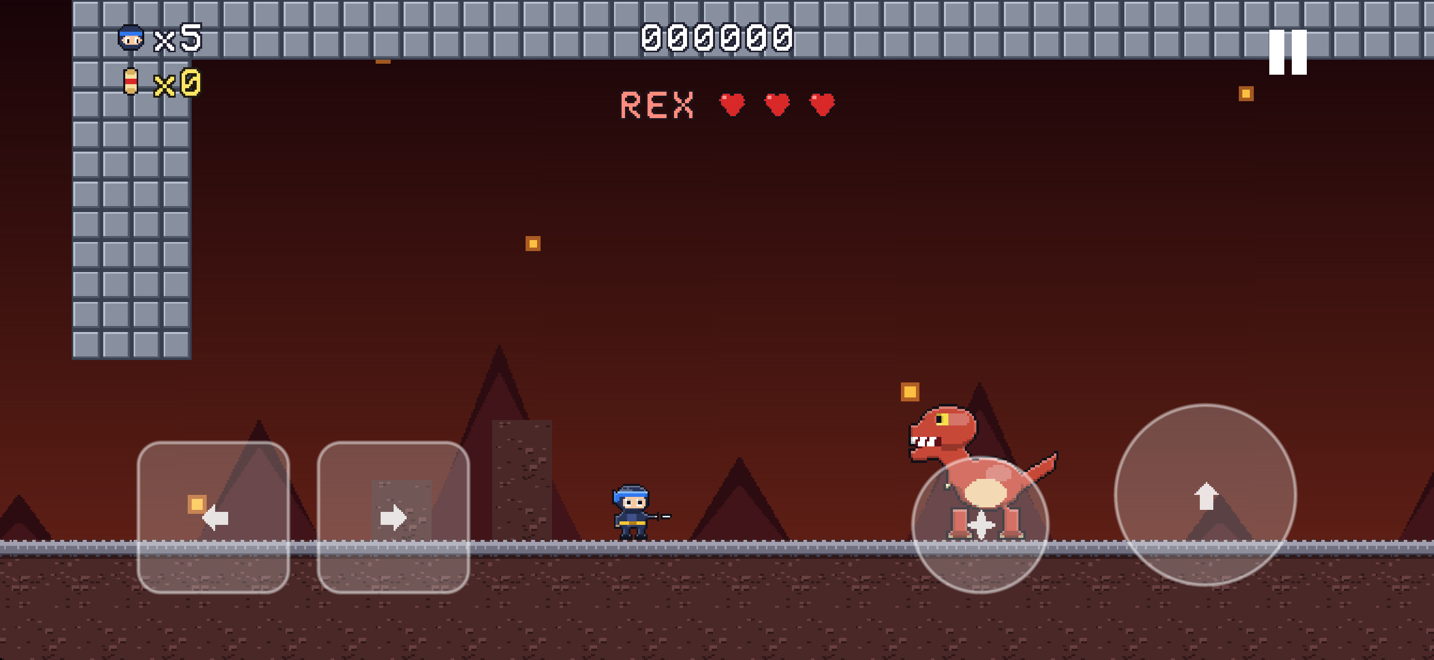
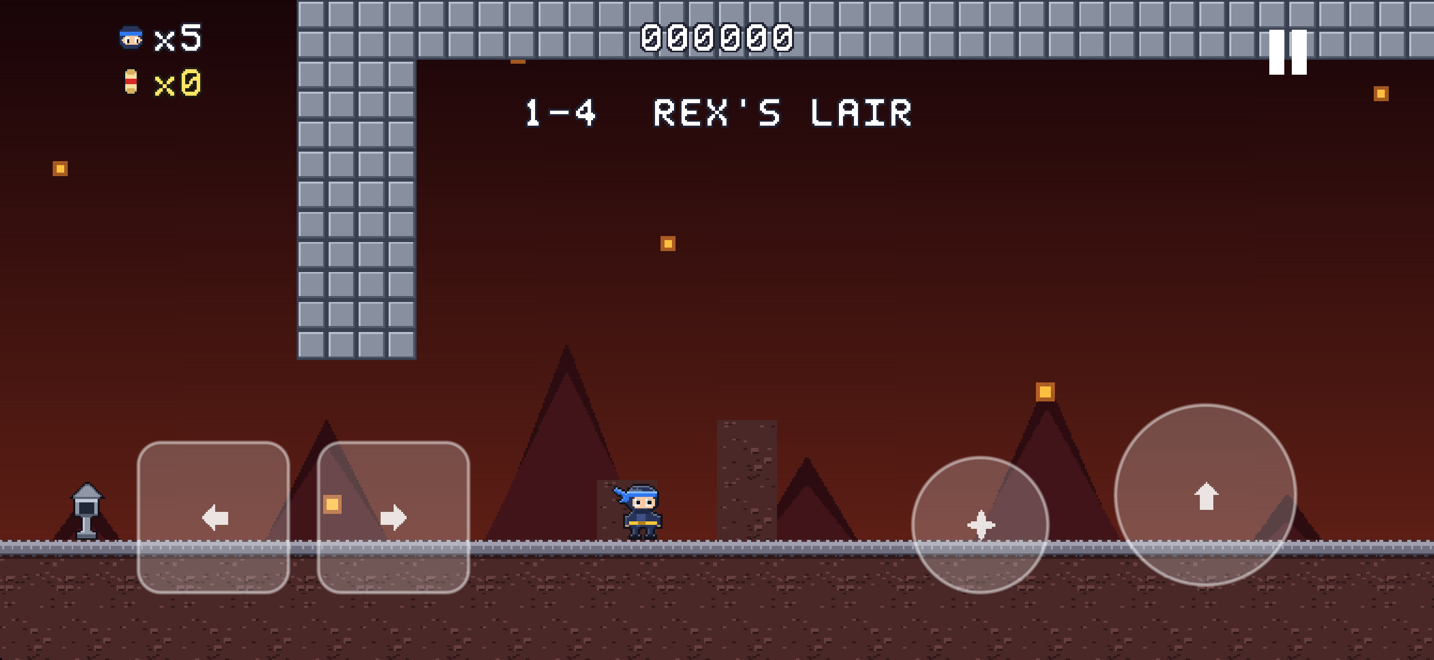
feat(rex): redraw the boss as a real tyrannosaur, walkers avoid lava and spikes
- enemies look one step ahead and turn away from hazard tiles, including rolling Anky balls
- icon shows the new Rex towering over the ninja

diff --git a/Sources/Ninjasaurus/Rendering/SpriteArt+Dinos.swift b/Sources/Ninjasaurus/Rendering/SpriteArt+Dinos.swift
@@ -178,50 +178,66 @@ extension SpriteArt {
     enum RexPose: String, CaseIterable { case idle, walk1, walk2, leap, stun, roar }
 
     static func rex(_ pose: RexPose) -> PixelSprite {
-        let red = PixelColor(0xC84838), belly = PixelColor(0xF0D0A0), mouth = PixelColor(0x601018), eyeYellow = Colors.yellow, fire = Colors.orange
+        let hide = PixelColor(0x5C7C40), hideDark = PixelColor(0x3C5430), belly = PixelColor(0xC4BC98), ridge = PixelColor(0x2C4024)
+        let mouth = PixelColor(0x6C1420), tooth = PixelColor(0xF4F0E0), eyeYellow = PixelColor(0xF8D040), fire = Colors.orange
         var p = PixelPainter(width: 64, height: 64)
-        p.fillPolygon([(20, 38), (0, 26), (1, 34), (22, 48)], red)
-        p.shadedEllipse(cx: 30, cy: 40, rx: 15, ry: 12, red)
-        p.fillEllipse(cx: 31, cy: 44, rx: 9, ry: 6, belly)
-        p.fillPolygon([(36, 30), (44, 16), (54, 26), (42, 40)], red)
-        p.shadedEllipse(cx: 47, cy: 16, rx: 13, ry: 10, red)
-        p.fillPolygon([(52, 11), (63.5, 15), (63.5, 20), (50, 21)], red)
-        let open = pose == .roar ? 6.0 : 0
-        p.fillPolygon([(50, 20), (63.5, 20), (63.5, 24 + open), (50, 26 + open)], mouth)
-        p.fillPolygon([(50, 24 + open), (63.5, 25 + open), (62, 31 + open), (50, 30 + open)], red)
-        for x in [52.0, 56.0, 60.0] {
-            p.fillPolygon([(x, 20), (x + 2.5, 20), (x + 1.2, 23)], .white)
-            p.fillPolygon([(x + 1, 24 + open), (x + 3.5, 24 + open), (x + 2.2, 21.5 + open)], .white)
+        let open = pose == .roar ? 5.0 : 0
+
+        p.fillPolygon([(18, 30), (0, 24), (0, 29), (20, 44)], hide)
+        p.fillPolygon([(4, 28), (0, 26), (0, 28), (6, 32)], hideDark)
+        p.shadedEllipse(cx: 22, cy: 39, rx: 11, ry: 10, hide)
+        p.shadedEllipse(cx: 34, cy: 33, rx: 12, ry: 9.5, hide)
+        p.fillEllipse(cx: 31, cy: 38, rx: 9, ry: 5, belly)
+        for x in stride(from: 8.0, through: 38.0, by: 5) {
+            let y = 30 - (x - 8) * 0.28
+            p.fillPolygon([(x - 1.5, y + 2), (x, y - 2.5), (x + 1.5, y + 2)], ridge)
+        }
+        p.fillPolygon([(40, 24), (46, 14), (56, 20), (46, 36)], hide)
+        p.shadedEllipse(cx: 50, cy: 15, rx: 12.5, ry: 8, hide)
+        p.fillPolygon([(52, 8), (63.5, 12), (63.5, 19), (48, 21)], hide)
+        p.fillPolygon([(42, 10), (50, 6), (56, 9), (52, 12), (44, 13)], hideDark)
+        p.fillPolygon([(46, 20), (63.5, 19), (63.5, 24 + open), (46, 25 + open)], mouth)
+        p.fillPolygon([(46, 24 + open), (63.5, 24 + open), (62, 30 + open), (48, 30 + open), (44, 27 + open)], hide)
+        for x in [49.0, 53.0, 57.0, 61.0] {
+            p.fillPolygon([(x, 19), (x + 3, 19), (x + 1.5, 23)], tooth)
+            p.fillPolygon([(x + 0.5, 25 + open), (x + 3.5, 25 + open), (x + 2, 21.5 + open)], tooth)
         }
         if pose == .roar {
-            p.fillEllipse(cx: 60, cy: 24, rx: 3, ry: 2, fire)
+            p.fillEllipse(cx: 61, cy: 23, rx: 3, ry: 2.5, fire)
         }
         if pose == .stun {
-            p.fillRect(46, 10, 51, 15, eyeYellow)
-            p.line(46, 10, 51, 15, ink); p.line(51, 10, 46, 15, ink)
-            for (x, y) in [(30.0, 3.0), (44.0, 1.0), (58.0, 4.0)] {
+            p.fillRect(48, 12, 53, 16, eyeYellow)
+            p.line(48, 12, 53, 16, ink); p.line(53, 12, 48, 16, ink)
+            for (x, y) in [(34.0, 4.0), (48.0, 1.0), (60.0, 3.0)] {
                 p.fillPolygon([(x, y - 3), (x + 1, y - 1), (x + 3, y), (x + 1, y + 1), (x, y + 3), (x - 1, y + 1), (x - 3, y), (x - 1, y - 1)], eyeYellow)
             }
         } else {
-            p.fillRect(47, 10, 51, 14, eyeYellow); p.fillRect(50, 11, 51, 13, ink)
+            p.fillRect(48, 12, 53, 15, eyeYellow); p.fillRect(51, 12, 52, 15, ink)
+            p.fillRect(46, 11, 54, 11, ridge)
         }
-        p.fillRect(42, 34, 47, 40, red); p.fillRect(46, 40, 48, 42, claw)
+        p.fillRect(40, 36, 43, 41, hide); p.fillRect(43, 40, 45, 41, claw); p.fillRect(43, 38, 45, 38, claw)
         switch pose {
         case .walk1:
-            p.fillRect(16, 50, 23, 60, red); p.fillRect(38, 50, 45, 60, red)
-            p.fillRect(14, 60, 25, 63, red.darkened(0.3)); p.fillRect(36, 60, 47, 63, red.darkened(0.3))
-            p.fillRect(15, 62, 16, 63, claw); p.fillRect(23, 62, 24, 63, claw); p.fillRect(37, 62, 38, 63, claw); p.fillRect(45, 62, 46, 63, claw)
+            p.fillEllipse(cx: 18, cy: 46, rx: 7, ry: 7, hideDark); p.fillRect(12, 50, 18, 60, hideDark)
+            p.fillEllipse(cx: 28, cy: 46, rx: 7, ry: 7, hide); p.fillRect(28, 50, 34, 60, hide)
+            p.fillRect(9, 60, 22, 63, hideDark); p.fillRect(26, 60, 39, 63, hide)
+            for x in [10, 15, 20] { p.fillRect(x, 62, x + 1, 63, claw) }
+            for x in [27, 32, 37] { p.fillRect(x, 62, x + 1, 63, claw) }
         case .walk2:
-            p.fillRect(26, 50, 33, 60, red); p.fillRect(31, 50, 38, 60, red)
-            p.fillRect(24, 60, 40, 63, red.darkened(0.3))
-            p.fillRect(25, 62, 26, 63, claw); p.fillRect(38, 62, 39, 63, claw)
+            p.fillEllipse(cx: 24, cy: 46, rx: 7, ry: 7, hideDark); p.fillRect(21, 50, 27, 60, hideDark)
+            p.fillEllipse(cx: 26, cy: 46, rx: 7, ry: 7, hide); p.fillRect(24, 50, 30, 60, hide)
+            p.fillRect(19, 60, 35, 63, hide)
+            for x in [20, 26, 32] { p.fillRect(x, 62, x + 1, 63, claw) }
         case .leap:
-            p.fillPolygon([(20, 48), (28, 50), (26, 58), (16, 56)], red); p.fillPolygon([(34, 48), (42, 50), (44, 58), (34, 56)], red)
-            p.fillRect(14, 56, 26, 59, red.darkened(0.3)); p.fillRect(34, 56, 46, 59, red.darkened(0.3))
+            p.fillEllipse(cx: 20, cy: 47, rx: 7, ry: 7, hideDark); p.fillPolygon([(14, 50), (22, 52), (28, 58), (20, 60)], hideDark)
+            p.fillEllipse(cx: 28, cy: 46, rx: 7, ry: 7, hide); p.fillPolygon([(24, 50), (32, 51), (38, 57), (30, 59)], hide)
+            p.fillRect(18, 58, 30, 61, hideDark); p.fillRect(28, 57, 40, 60, hide)
         default:
-            p.fillRect(22, 50, 29, 60, red); p.fillRect(34, 50, 41, 60, red)
-            p.fillRect(20, 60, 31, 63, red.darkened(0.3)); p.fillRect(32, 60, 43, 63, red.darkened(0.3))
-            p.fillRect(21, 62, 22, 63, claw); p.fillRect(29, 62, 30, 63, claw); p.fillRect(33, 62, 34, 63, claw); p.fillRect(41, 62, 42, 63, claw)
+            p.fillEllipse(cx: 20, cy: 46, rx: 7, ry: 7, hideDark); p.fillRect(15, 50, 21, 60, hideDark)
+            p.fillEllipse(cx: 28, cy: 46, rx: 7, ry: 7, hide); p.fillRect(26, 50, 32, 60, hide)
+            p.fillRect(12, 60, 25, 63, hideDark); p.fillRect(24, 60, 37, 63, hide)
+            for x in [13, 18, 23] { p.fillRect(x, 62, x + 1, 63, claw) }
+            for x in [25, 30, 35] { p.fillRect(x, 62, x + 1, 63, claw) }
         }
         return finish(&p)
     }

diff --git a/Tests/NinjasaurusTests/GameplayRulesTests.swift b/Tests/NinjasaurusTests/GameplayRulesTests.swift
@@ -220,6 +220,36 @@ final class GameplayRulesTests: XCTestCase {
         XCTAssertTrue(world.enemies.isEmpty, "stomped raptor came back")
     }
 
+    func testWalkersTurnAwayFromLava() {
+        let lava = """
+        ! name: Lava
+        ! theme: lava
+        ..............................
+        ..............................
+        ..............................
+        ..............................
+        ..............................
+        ..............................
+        ..............................
+        ..............................
+        ..............................
+        ..............................
+        .S....r............a.......F..
+        GGGGGGGGGGGG~~GGGGGGGGGG~~GGGG
+        ##############################
+        """
+        let world = WorldTestSupport.world(lava)
+        for enemy in world.enemies { enemy.facing = .right }
+        world.player.invulnerableFrames = 100_000
+        WorldTestSupport.run(world, frames: 600)
+        XCTAssertEqual(world.enemies.count, 2)
+        for enemy in world.enemies {
+            XCTAssertTrue(enemy.onGround)
+            let cols = Tiles.index(enemy.rect.minX + 1)...Tiles.index(enemy.rect.maxX - 1)
+            XCTAssertFalse(cols.contains { world.map[$0, 1].isHazard }, "\(enemy.kind) is standing in lava")
+        }
+    }
+
     func testRaptorWalksOffLedgesButAnkyTurnsAround() {
         let ledge = """
         ! name: Ledge

diff --git a/Sources/Ninjasaurus/World/Enemies.swift b/Sources/Ninjasaurus/World/Enemies.swift
@@ -25,9 +25,11 @@ class Enemy: Entity {
 
     func walk(in world: GameWorld) {
         if hitWall { facing = facing.flipped }
-        if turnsAtLedges && onGround {
+        if onGround {
             let footX = facing == .right ? rect.maxX + 1 : rect.minX - 1
-            if !TileCollider.hasFloor(x: footX, belowY: rect.minY, in: world.map) {
+            if TileCollider.hazardAhead(x: footX, footY: rect.minY, in: world.map) {
+                facing = facing.flipped
+            } else if turnsAtLedges && !TileCollider.hasFloor(x: footX, belowY: rect.minY, in: world.map) {
                 facing = facing.flipped
             }
         }
@@ -119,6 +121,9 @@ final class Anky: Enemy {
             }
         case .ballMoving:
             if hitWall { facing = facing.flipped }
+            if onGround && TileCollider.hazardAhead(x: facing == .right ? rect.maxX + 1 : rect.minX - 1, footY: rect.minY, in: world.map) {
+                facing = facing.flipped
+            }
             velocity.x = facing.sign * GameConstants.ballSpeed
             setAnim(.ball, frame: world.frame)
         }

diff --git a/Sources/Ninjasaurus/World/TileCollider.swift b/Sources/Ninjasaurus/World/TileCollider.swift
@@ -61,6 +61,18 @@ enum TileCollider {
         return YResult(rect: moved, landed: false, hitCeiling: false, ceilingRow: row, ceilingColumns: [])
     }
 
+    static func hazardAhead(x: Double, footY: Double, in map: TileMap) -> Bool {
+        let col = Tiles.index(x)
+        let footRow = Tiles.index(footY + epsilon)
+        if map[col, footRow].isHazard { return true }
+        for row in stride(from: footRow - 1, through: footRow - 3, by: -1) {
+            let tile = map[col, row]
+            if tile.isHazard { return true }
+            if tile.isSolid || tile.isOneWay { return false }
+        }
+        return false
+    }
+
     static func hasFloor(x: Double, belowY y: Double, in map: TileMap) -> Bool {
         let tile = map[Tiles.index(x), Tiles.index(y - epsilon)]
         return tile.isSolid || tile.isOneWay

diff --git a/scripts/icon/main.swift b/scripts/icon/main.swift
@@ -47,9 +47,9 @@ for x in stride(from: 0, to: size, by: tile) {
 }
 
 let ninja = SpriteArt.bigNinja(.standard, .idle)
-draw(ninja, x: 90, y: tile, scale: 12)
+draw(ninja, x: 60, y: tile, scale: 9)
 let rex = SpriteArt.rex(.roar).flippedHorizontally()
-draw(rex, x: 480, y: tile, scale: 8)
+draw(rex, x: 370, y: tile, scale: 10)
 
 let image = context.makeImage()!
 let destination = CGImageDestinationCreateWithURL(URL(fileURLWithPath: output) as CFURL, UTType.png.identifier as CFString, 1, nil)!
